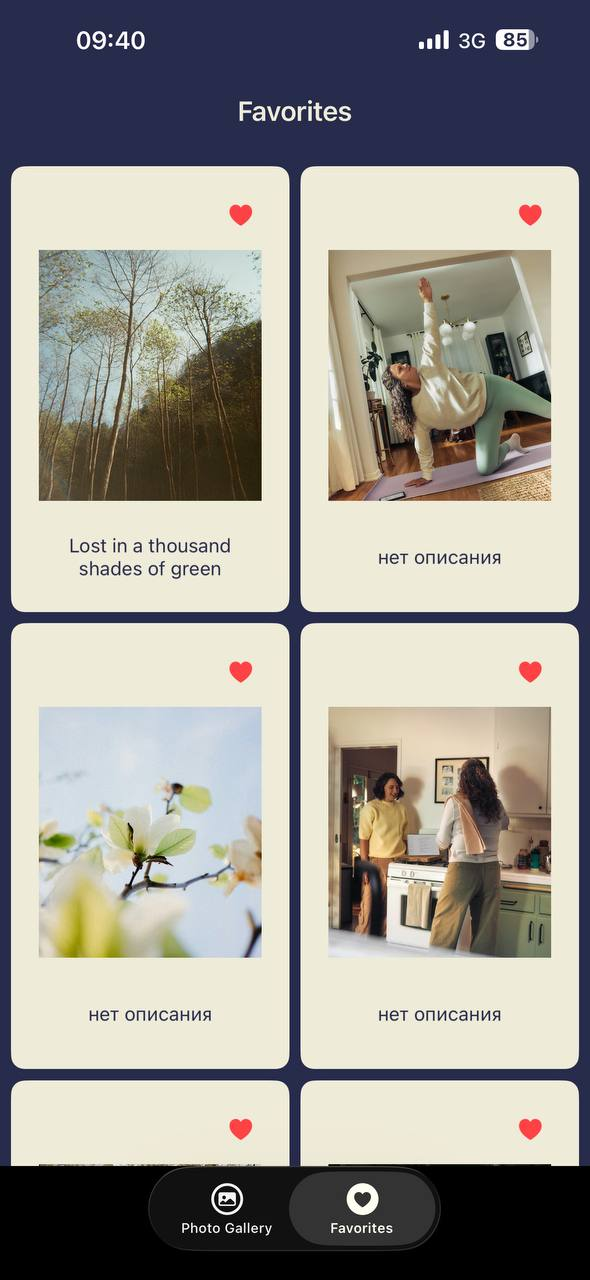
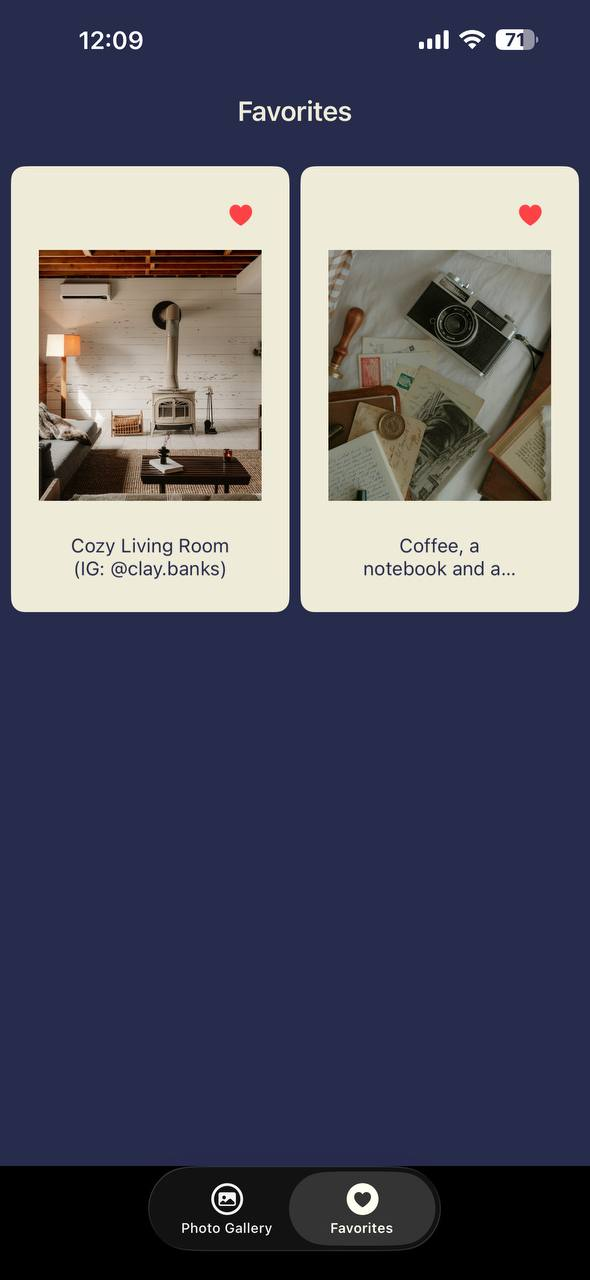
[FIXED] fixed other bugs, replaced the screenshots with new ones

diff --git a/gallery_app/Views/FavoritePhotosViewController.swift b/gallery_app/Views/FavoritePhotosViewController.swift
@@ -123,7 +123,7 @@ final class FavoritePhotosViewController: UIViewController {
                 height: Int(favPhoto.height),
                 color: favPhoto.color,
                 description: favPhoto.altDescription,
-                alt_description: nil,
+                alt_description: favPhoto.altDescription,
                 urls: urls,
                 user: user
             )
